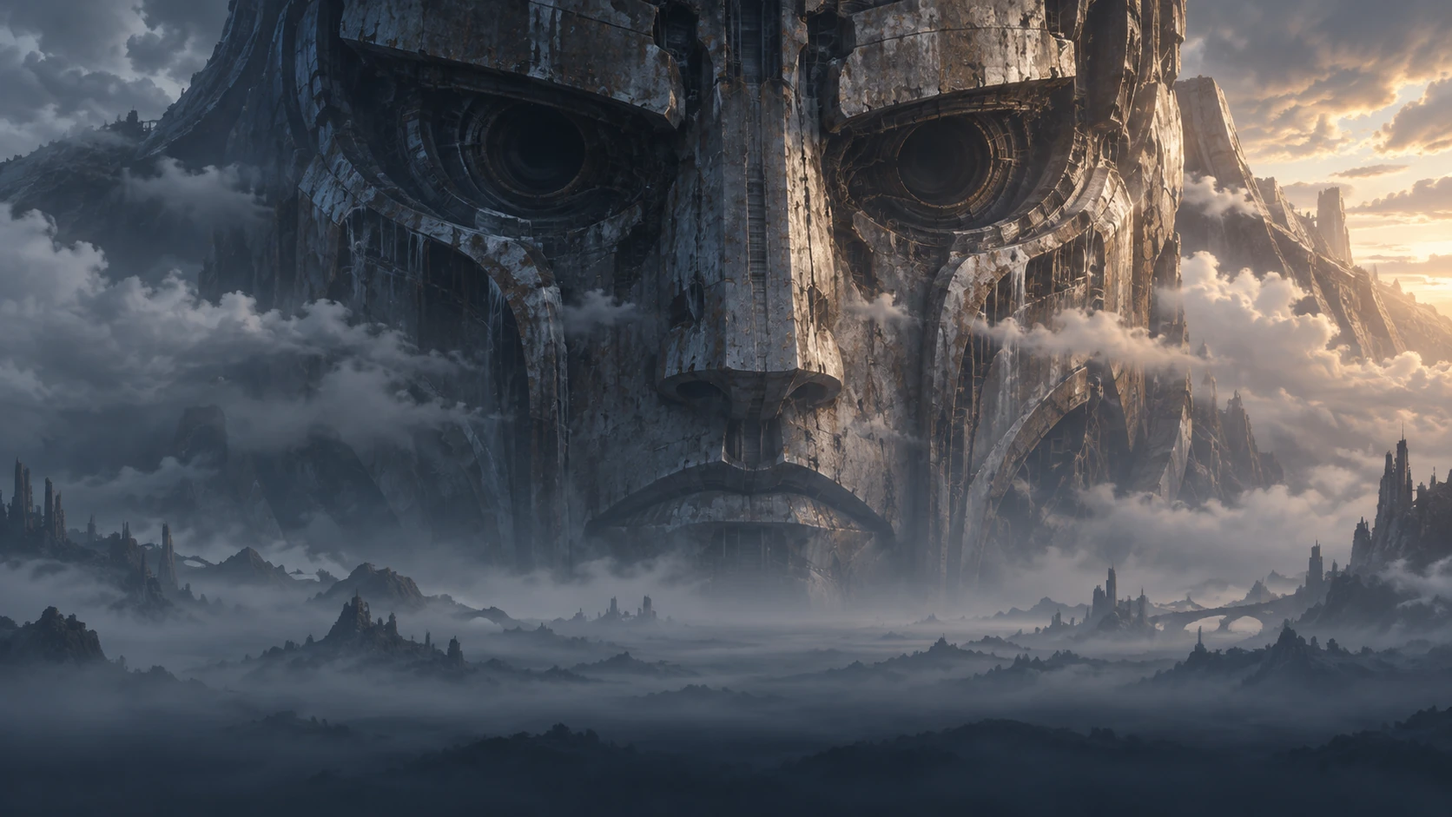
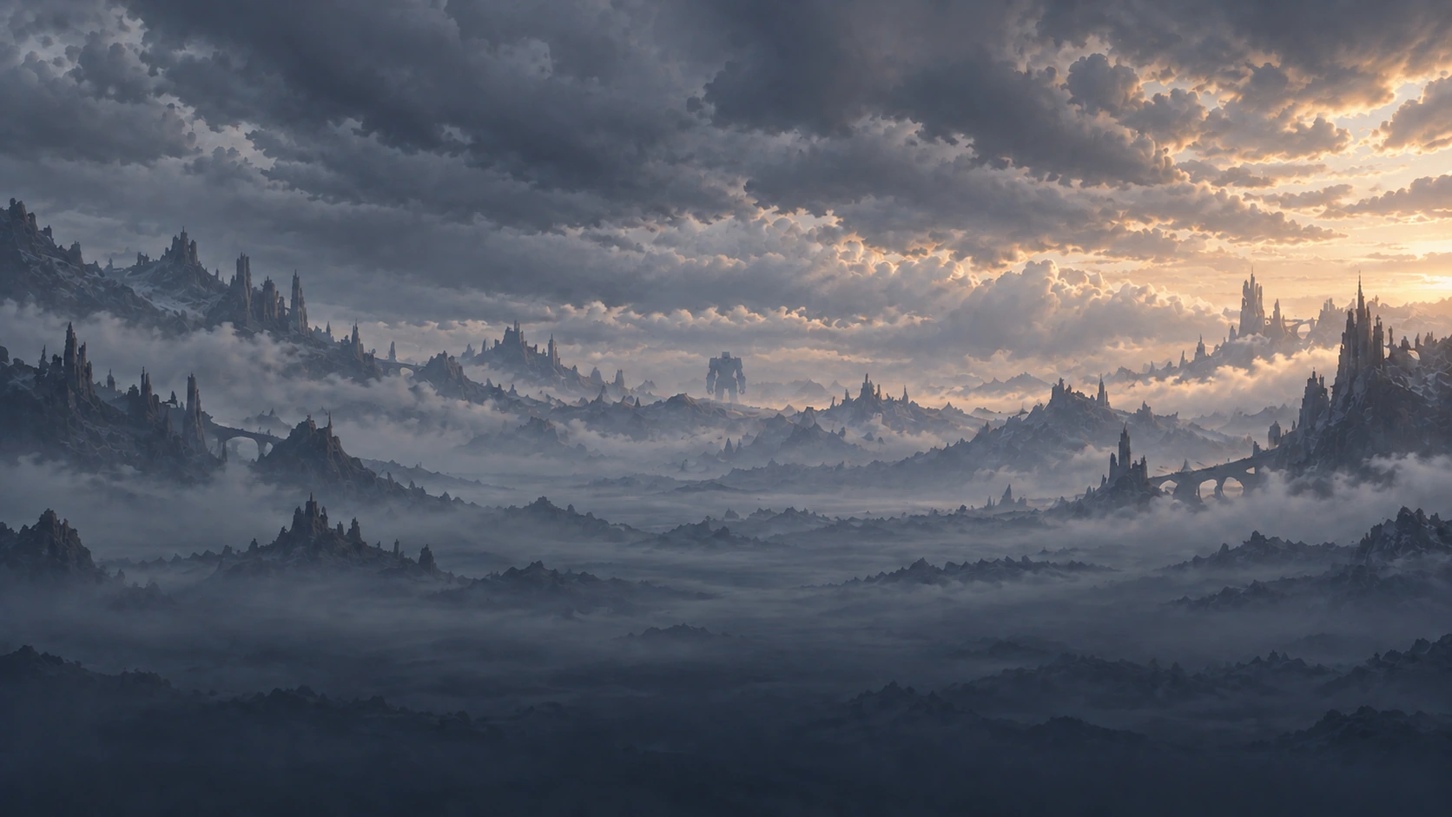
Place the Colossus on the far horizon and taper its laser

diff --git a/src/colossus-art.js b/src/colossus-art.js
@@ -1,7 +1,7 @@
-import { COLOSSUS, COLOSSUS_EYES, colossusPhase, colossusPose, colossusEye, colossusBeam, beamX } from './colossus.js';
+import { COLOSSUS, COLOSSUS_EYES, colossusPhase, colossusPose, colossusEye, colossusBeam, beamX, beamEdges } from './colossus.js';
 
 const TAU=Math.PI*2;
-let backdrop, mist;
+let backdrop, mist, energyTexture;
 const clamp=n=>Math.max(0,Math.min(1,n));
 const line=(c,x,y,ex,ey,color,width)=>{c.beginPath();c.moveTo(x,y);c.lineTo(ex,ey);c.strokeStyle=color;c.lineWidth=width;c.stroke();};
 const circle=(c,x,y,r,color)=>{c.beginPath();c.arc(x,y,r,0,TAU);c.fillStyle=color;c.fill();};
@@ -36,12 +36,25 @@ function glow(c,x,y,r,alpha,hot=false) {
   g.addColorStop(1,'rgba(91,184,224,0)');
   c.fillStyle=g;c.fillRect(x-r,y-r,r*2,r*2);
 }
+function beamTexture() {
+  if(energyTexture)return energyTexture;
+  const strip=document.createElement('canvas');strip.width=720;strip.height=1;
+  const s=strip.getContext('2d'),bloom=s.createLinearGradient(0,0,720,0);
+  for(const [at,color] of [[0,'#63bfea00'],[.12,'#63bfea08'],[.28,'#8cdef636'],[.33,'#b9f5ff85'],[.38,'#e5fcffe6'],[.45,'#ffffff'],[.55,'#ffffff'],[.62,'#e5fcffe6'],[.67,'#b9f5ff85'],[.72,'#8cdef636'],[.88,'#63bfea08'],[1,'#63bfea00']])bloom.addColorStop(at,color);
+  s.fillStyle=bloom;s.fillRect(0,0,720,1);
+  energyTexture=document.createElement('canvas');energyTexture.width=720;energyTexture.height=1024;
+  const c=energyTexture.getContext('2d');
+  for(let y=0;y<1024;y++){
+    const width=720*(y+.5)/1024;c.drawImage(strip,(720-width)/2,y,width,1);
+  }
+  return energyTexture;
+}
 function eye(c,h,index,energy,reduced) {
   const p=colossusEye(h,index),base=COLOSSUS_EYES[index],pose=colossusPose(h.age);
   c.save();
   // Restrict the optical mechanism to the aperture in the matte painting.
-  c.beginPath();c.ellipse(base.x+pose.x,base.y+pose.y,81,71,index?-.08:.12,0,TAU);c.clip();
-  c.translate(p.x,p.y);c.scale(1,.88);
+  c.beginPath();c.ellipse(base.x+pose.x,base.y+pose.y,1.8,1.6,0,0,TAU);c.clip();
+  c.translate(p.x,p.y);c.scale(.022,.022*.88);
   const rim=c.createRadialGradient(-12,-15,2,0,0,67);
   rim.addColorStop(0,'#172734');rim.addColorStop(.4,'#0c1823');rim.addColorStop(.85,'#13212c');rim.addColorStop(1,'#293c48');
   circle(c,0,0,64,rim);
@@ -66,13 +79,13 @@ function eye(c,h,index,energy,reduced) {
   circle(c,-2,1,6+energy*17,energy?`rgba(205,248,255,${.1+energy*.9})`:'#60798388');
   if(energy>0){glow(c,0,0,85,energy*.7,true);circle(c,0,0,5+energy*9,`rgba(244,254,255,${energy})`);}
   c.restore();
-  glow(c,p.x,p.y,140+energy*280,energy*.4);
+  glow(c,p.x,p.y,8+energy*65,energy*.35);
   if(energy>.3){
     c.save();c.globalCompositeOperation='screen';
-    const g=c.createLinearGradient(p.x-380,p.y,p.x+380,p.y);
+    const g=c.createLinearGradient(p.x-95,p.y,p.x+95,p.y);
     g.addColorStop(0,'#77e2ff00');g.addColorStop(.48,`rgba(179,235,252,${energy*.28})`);
     g.addColorStop(.5,`rgba(228,251,255,${energy*.6})`);g.addColorStop(.52,`rgba(179,235,252,${energy*.28})`);g.addColorStop(1,'#77e2ff00');
-    c.fillStyle=g;c.fillRect(p.x-380,p.y-1,760,2+energy*2);c.restore();
+    c.fillStyle=g;c.fillRect(p.x-95,p.y-.5,190,1+energy);c.restore();
   }
 }
 export function drawColossusSky(c,state,reduced=false) {
@@ -93,7 +106,7 @@ export function drawColossusSky(c,state,reduced=false) {
     c.drawImage(cloud,x,530+n*117,1480,155+n*25);
   }
   c.restore();
-  // Low foreground haze separates tiny, playable ruins from the distant face.
+  // Low foreground haze separates the playable ruins from the far horizon.
   const veil=c.createLinearGradient(0,750,0,1440);
   veil.addColorStop(0,'#0b162000');veil.addColorStop(.45,'#0b162032');veil.addColorStop(1,'#0b1620bb');
   c.fillStyle=veil;c.fillRect(0,750,2560,690);
@@ -129,12 +142,14 @@ export function drawColossusBeam(c,state,reduced=false) {
     const q=clamp((phase.charge-.18)/.5);
     const left=a.ex<b.ex?a:b,right=a.ex<b.ex?b:a;
     c.fillStyle=`rgba(158,214,231,${q*.055})`;
-    c.beginPath();c.moveTo(left.x-COLOSSUS.radius,left.y);c.lineTo(left.ex-COLOSSUS.radius,left.ey);
-    c.lineTo(right.ex+COLOSSUS.radius,right.ey);c.lineTo(right.x+COLOSSUS.radius,right.y);c.closePath();c.fill();
-    for(const edge of [a,b])line(c,edge.x,edge.y,edge.ex,edge.ey,`rgba(172,232,244,${q*.22})`,2);
+    const lx=Math.min(...beamEdges(left,1510)),rx=Math.max(...beamEdges(right,1510));
+    c.beginPath();c.moveTo(left.x,left.y);c.lineTo(lx,1510);
+    c.lineTo(rx,1510);c.lineTo(right.x,right.y);c.closePath();c.fill();
+    for(const edge of [a,b])line(c,edge.x,edge.y,edge.ex,edge.ey,`rgba(172,232,244,${q*.22})`,1.5);
     // Illumination is clipped to actual surviving stone, including prior cuts.
     for(const p of state.platforms){
-      const lo=Math.min(beamX(a,p.y),beamX(b,p.y))-70,hi=Math.max(beamX(a,p.y),beamX(b,p.y))+70;
+      const edges=[...beamEdges(a,p.y),...beamEdges(b,p.y)];
+      const lo=Math.min(...edges),hi=Math.max(...edges);
       const x=Math.max(p.x,lo),right=Math.min(p.x+p.w,hi);
       if(right>x){c.fillStyle=`rgba(160,222,231,${q*.42})`;c.fillRect(x,p.y,right-x,3);}
     }
@@ -153,14 +168,14 @@ export function drawColossusBeam(c,state,reduced=false) {
   c.globalAlpha=envelope;
   // Soft outer energy, a hard dangerous edge and a white-hot central core.
   c.save();c.translate(beam.x,beam.y);c.rotate(Math.atan2(beam.ey-beam.y,beam.ex-beam.x)-Math.PI/2);
-  const bloom=c.createLinearGradient(-180,0,180,0);
-  for(const [at,color] of [[0,'#63bfea00'],[.12,'#63bfea08'],[.28,'#8cdef636'],[.33,'#b9f5ff85'],[.38,'#e5fcffe6'],[.45,'#ffffff'],[.55,'#ffffff'],[.62,'#e5fcffe6'],[.67,'#b9f5ff85'],[.72,'#8cdef636'],[.88,'#63bfea08'],[1,'#63bfea00']])bloom.addColorStop(at,color);
-  c.fillStyle=bloom;c.fillRect(-180,0,360,Math.hypot(beam.ex-beam.x,beam.ey-beam.y));c.restore();
+  const length=Math.hypot(beam.ex-beam.x,beam.ey-beam.y);
+  c.drawImage(beamTexture(),-180,0,360,length);
+  c.restore();
   if(!reduced)for(let n=0;n<5;n++){
     const offset=Math.sin(h.age*1.2+n*1.7)*38;
-    line(c,beam.x+offset*.15,beam.y,beam.ex+offset,beam.ey,'#eeffff55',2+n%2);
+    line(c,beam.x+offset*.005,beam.y,beam.ex+offset,beam.ey,'#eeffff40',1+n%2);
   }
-  glow(c,beam.x,beam.y,400,.75,true);
+  glow(c,beam.x,beam.y,85,.6,true);
   // Bloom is local; it never whites out the HUD or hides all the escape routes.
   c.fillStyle=`rgba(165,219,241,${reduced ? .025 : .055})`;c.fillRect(0,0,2560,1440);
   for(const p of state.platforms.slice(0,260)){

diff --git a/src/colossus.js b/src/colossus.js
@@ -1,10 +1,11 @@
-import { playerBox, segmentBox } from './collision.js';
+import { playerBox } from './collision.js';
+import { beamTouches } from './phaser.js';
 import { bodyBounds, damageProp } from './props.js';
 
 export const COLOSSUS = Object.freeze({
   cycle: 40, wake: 16, charge: 10, fire: 4.5, radius: 60, sweep: 380,
 });
-export const COLOSSUS_EYES = Object.freeze([{x:944,y:274}, {x:1639,y:289}]);
+export const COLOSSUS_EYES = Object.freeze([{x:1274.5,y:628}, {x:1280.5,y:628}]);
 const clamp = (n, a, b) => Math.max(a, Math.min(b, n));
 export function colossusPhase(age) {
   const phase = (age + 1e-9) % COLOSSUS.cycle;
@@ -22,26 +23,34 @@ export function initialColossus() {
 // The common pose anchors both the optical artwork and physical laser. A head
 // traverse takes over two minutes; there is no fast player-following camera.
 export function colossusPose(age) {
-  return {x:Math.sin(age*.043)*3.5, y:Math.sin(age*.031)*2};
+  return {x:Math.sin(age*.043)*.25, y:Math.sin(age*.031)*.15};
 }
 export function colossusEye(h, eye = h.eye) {
   const p = colossusPose(h.age), e = COLOSSUS_EYES[eye];
-  return {x:e.x+p.x+(h.gazeX-1280)/1280*16,
-    y:e.y+p.y+(h.gazeY-1000)/700*10};
+  return {x:e.x+p.x+(h.gazeX-1280)/1280*.7,
+    y:e.y+p.y+(h.gazeY-1000)/700*.4};
 }
 export function colossusBeam(h, progress = colossusPhase(h.age).fire) {
   const eye = colossusEye(h), dir = h.eye ? -1 : 1;
-  return {...eye, ex:h.strikeX + dir*(progress-.5)*COLOSSUS.sweep, ey:1510,
-    radius:COLOSSUS.radius};
+  const ex=h.strikeX + dir*(progress-.5)*COLOSSUS.sweep,ey=1510;
+  return {...eye,ex,ey,radius:COLOSSUS.radius,flare:Math.hypot(ex-eye.x,ey-eye.y)};
 }
 export function beamX(beam, y) {
   return beam.x + (beam.ex-beam.x) * (y-beam.y)/(beam.ey-beam.y);
 }
+// Perspective narrows the ray to its remote eye. These same straight edges
+// drive the warning, cuts and shared polygon/actor collision.
+export function beamEdges(beam,y) {
+  const length=Math.hypot(beam.ex-beam.x,beam.ey-beam.y);
+  const nx=(beam.ey-beam.y)/length,ny=-(beam.ex-beam.x)/length;
+  return [-1,1].map(side=>beam.x+(beam.ex+side*nx*beam.radius-beam.x)*
+    Math.max(0,y-beam.y)/(beam.ey+side*ny*beam.radius-beam.y));
+}
 export function colossusZone(h, y) {
   const a=colossusBeam(h,0), b=colossusBeam(h,1);
   const top=y == null ? Math.min(a.y,b.y) : y-60, bottom=y == null ? 1510 : y+60;
-  const xs=[beamX(a,top),beamX(a,bottom),beamX(b,top),beamX(b,bottom)];
-  return {x:Math.min(...xs)-85,y:top,w:Math.max(...xs)-Math.min(...xs)+170,h:bottom-top};
+  const xs=[...beamEdges(a,top),...beamEdges(a,bottom),...beamEdges(b,top),...beamEdges(b,bottom)];
+  return {x:Math.min(...xs)-25,y:top,w:Math.max(...xs)-Math.min(...xs)+50,h:bottom-top};
 }
 export function colossusDanger(h,x,y,padding=18) {
   if(h.done || (!h.active && h.warning<=0))return false;
@@ -58,11 +67,9 @@ export function carveColossusBeam(world, beam, previous = beam) {
   const removedWreck = new Set();
   for(const p of world.platforms) {
     if(p.hp===0)continue;
-    const slope=(beam.ex-beam.x)/(beam.ey-beam.y), oldSlope=(previous.ex-previous.x)/(previous.ey-previous.y);
-    const radius=beam.radius*Math.sqrt(1+Math.max(slope*slope,oldSlope*oldSlope));
-    const xs=[beamX(beam,p.y),beamX(beam,p.y+p.h),beamX(previous,p.y),beamX(previous,p.y+p.h)];
+    const xs=[...beamEdges(beam,p.y),...beamEdges(beam,p.y+p.h),...beamEdges(previous,p.y),...beamEdges(previous,p.y+p.h)];
     if(p.y+p.h<beam.y-beam.radius || p.y>beam.ey+beam.radius ||
-      p.x+p.w<=Math.min(...xs)-radius || p.x>=Math.max(...xs)+radius) {out.push(p);continue;}
+      p.x+p.w<=Math.min(...xs) || p.x>=Math.max(...xs)) {out.push(p);continue;}
     if(p.wreckId){removedWreck.add(p.wreckId);changed=true;continue;}
     let touched=false;
     const slices=[];
@@ -73,8 +80,8 @@ export function carveColossusBeam(world, beam, previous = beam) {
     };
     for(let y=p.y;y<p.y+p.h;y+=8) {
       const height=Math.min(8,p.y+p.h-y);
-      const xa=[beamX(beam,y),beamX(beam,y+height),beamX(previous,y),beamX(previous,y+height)];
-      const left=clamp(Math.min(...xa)-radius,p.x,p.x+p.w), right=clamp(Math.max(...xa)+radius,p.x,p.x+p.w);
+      const xa=[...beamEdges(beam,y),...beamEdges(beam,y+height),...beamEdges(previous,y),...beamEdges(previous,y+height)];
+      const left=clamp(Math.min(...xa),p.x,p.x+p.w), right=clamp(Math.max(...xa),p.x,p.x+p.w);
       if(right-left>.01)touched=true;
       add(p.x,y,left-p.x,height);add(right,y,p.x+p.w-right,height);
     }
@@ -127,12 +134,12 @@ export function updateColossus(world,h,dt) {
   const sweepPad=before.firing?Math.abs(beam.ex-oldBeam.ex):0;
   for(const p of world.players){
     if(!p.alive || h.hitIds.includes(p.id))continue;
-    if(!segmentBox(beam.x,beam.y,beam.ex,beam.ey,playerBox(p),beam.radius+sweepPad))continue;
+    if(!beamTouches(playerBox(p),{...beam,radius:beam.radius+sweepPad}))continue;
     h.hitIds.push(p.id);
     world.hit(p,{x:beam.x,y:beam.y,vx:0,vy:0},1000,1050,Math.sign(p.x-beam.x)||1,.3,
       {blast:true,effect:'plasma',cause:'colossus',hitstop:0});
   }
-  for(const p of [...world.cover,...world.chunks])if(p.hp>0&&segmentBox(beam.x,beam.y,beam.ex,beam.ey,bodyBounds(p),beam.radius+sweepPad))
+  for(const p of [...world.cover,...world.chunks])if(p.hp>0&&beamTouches(bodyBounds(p),{...beam,radius:beam.radius+sweepPad}))
     damageProp(world,p,1000,(Math.sign(p.x-beam.x)||1)*420,-260);
   // Carve at most once per 14 units of sweep; the preceding beam closes the
   // gap exactly. Bounded chunks/debris use the shared physical-world budgets.

diff --git a/tests/colossus.test.js b/tests/colossus.test.js
@@ -18,7 +18,7 @@ function fixture(){const w=new World({arena:ARENAS.findIndex(a=>a.colossus),play
 function advance(w,seconds){for(let n=0;n<Math.round(seconds/STEP);n++){w.time+=STEP;updateColossus(w,w.hazards[0],STEP);}}
 function transport(w){return expandSnapshot(compactSnapshot(new RenderSnapshots().make(w.snapshot())),validSnapshot);}
 
-test('colossus terraces connect every spawn to contested weapons with the face above play',()=>{
+test('colossus terraces connect every spawn to contested weapons with the distant mech above play',()=>{
   const w=fixture(),solids=w.solids(),graph=navigation(solids,{time:0,spikes:[]});
   assert.ok(w.platforms.every(p=>p.y>=870));
   for(const p of w.players){
@@ -68,6 +68,15 @@ test('beam carves only its swept contact, releases removed supports and destroys
     prepareProp({id:'safe',kind:'crate',x:100,y:1040,w:72,h:64,hp:75,maxHp:75})];
   advance(w,STEP);assert.equal(w.cover[0].hp,0);assert.equal(w.cover[1].hp,75);
   assert.ok(w.chunks.length>0&&w.chunks.length<=96);
+});
+
+test('the distant beam narrows with perspective and cannot hit outside its visible cone',()=>{
+  const w=fixture(),h=w.hazards[0];h.age=26;h.strikeX=1280;
+  const beam=colossusBeam(h),nearEye=w.players[0],foreground=w.players[1];
+  Object.assign(nearEye,{x:beamX(beam,800)+50,y:800,spawnShield:0});
+  Object.assign(foreground,{x:beamX(beam,1300)+20,y:1300,spawnShield:0});
+  advance(w,STEP);
+  assert.equal(nearEye.hp,100);assert.equal(foreground.alive,false);
 });
 
 test('distant mech cannot be destroyed by local blasts; only host fight state advances it',()=>{

diff --git a/tests/release-metadata.test.js b/tests/release-metadata.test.js
@@ -1,6 +1,28 @@
 import test from 'node:test';
 import assert from 'node:assert/strict';
 import { verifyReleaseMetadata } from '../scripts/verify-release.mjs';
+import { gameFingerprint } from '../scripts/release-metadata.mjs';
+import fs from 'node:fs/promises';
+import os from 'node:os';
+import path from 'node:path';
+
+test('game fingerprints preserve binary artwork bytes while normalizing text line endings', async () => {
+  const root=await fs.mkdtemp(path.join(os.tmpdir(),'bonk-fingerprint-'));
+  try {
+    await fs.mkdir(path.join(root,'src/assets'),{recursive:true});
+    await fs.mkdir(path.join(root,'scripts'));
+    for(const name of ['index.html','favicon.svg','package.json','package-lock.json','vite.config.js','scripts/release-metadata.mjs'])
+      await fs.writeFile(path.join(root,name),'source\r\n');
+    const asset=path.join(root,'src/assets/art.webp');
+    await fs.writeFile(asset,Buffer.from([0x80,0x0d,0x0a]));
+    const a=await gameFingerprint(root);
+    await fs.writeFile(path.join(root,'index.html'),'source\n');
+    assert.equal(await gameFingerprint(root),a);
+    // Both invalid UTF-8 bytes would collapse to the same replacement character.
+    await fs.writeFile(asset,Buffer.from([0x81,0x0d,0x0a]));
+    assert.notEqual(await gameFingerprint(root),a);
+  } finally { await fs.rm(root,{recursive:true,force:true}); }
+});
 
 test('publication requires clean browser, Windows and Linux outputs of one game revision', () => {
   const common = { version: '0.19.0', revision: 'a'.repeat(40), gameSourceHash: 'b'.repeat(64), dirty: false };

diff --git a/src/colossus-sound.js b/src/colossus-sound.js
@@ -1,4 +1,4 @@
-import { COLOSSUS } from './colossus.js';
+import { COLOSSUS, COLOSSUS_EYES } from './colossus.js';
 export const COLOSSUS_SOUND_SECONDS=COLOSSUS.charge+COLOSSUS.fire+3;
 
 // One cached, seekable voice: distant gearing, a slowly rising pressure tone,
@@ -47,7 +47,7 @@ export class ColossusSound {
       if(Math.abs(this.current.voice.end-sound.context.currentTime-(COLOSSUS_SOUND_SECONDS-offset))<.18)return;
     }
     this.stop(sound);
-    const voice=sound.sample('colossus',{x:h.eye?1639:944},{priority:true,fixed:true,offset,duration:COLOSSUS_SOUND_SECONDS-offset});
+    const voice=sound.sample('colossus',{x:COLOSSUS_EYES[h.eye].x},{priority:true,fixed:true,offset,duration:COLOSSUS_SOUND_SECONDS-offset});
     if(voice)this.current={key,age:h.age,voice};
   }
 }

diff --git a/tests/scale.test.js b/tests/scale.test.js
@@ -85,7 +85,7 @@ test("all arenas occupy the enlarged world and support expanded online snapshots
       assert.ok(w.platforms[0].w > 2300);
       assert.ok(w.players.every(p=>p.y < w.platforms[0].y));
     } else if(w.arena.colossus) {
-      assert.ok(w.platforms.every(p=>p.y>=870),'the face owns the skyline');
+      assert.ok(w.platforms.every(p=>p.y>=870),'the distant silhouette stays above the playable ruins');
       assert.ok(w.platforms.length>=11&&w.platforms.some(p=>p.y>=1300));
       assert.ok(Math.abs(w.players[0].x-w.players[1].x)>2000);
     } else {

diff --git a/src/colossus-arena.js b/src/colossus-arena.js
@@ -2,7 +2,7 @@ const terrace = (x, y, w, h = 32) => ({
   x, y, w, h, material: 'stone', colossusStone: true,
 });
 
-// A low, open ruin keeps the skyline clear. Staggered stairs connect both
+// A low, open ruin keeps the distant silhouette clear. Staggered stairs connect both
 // galleries; the lower crossing remains an escape route after an upper cut.
 export const COLOSSUS_ARENA = {
   name: 'COLOSSUS', theme: 'colossus', color: '#1a2734', colossus: true,

diff --git a/docs/COLOSSUS.md b/docs/COLOSSUS.md
@@ -1,19 +1,21 @@
 # Colossus arena
 
-The distant face is the main landscape. Play stays on low, connected stone
-terraces beneath it. Both eyes follow the living fighters through two slow
-tracking filters; a head traverse takes over two minutes. The mech is outside
-the playable world and cannot be hit, removed or captured by local weapons.
+The ancient mech is a tiny, almost square silhouette on the far horizon, with
+its head, torso, arms and legs visible through the haze. Low, connected ruins
+leave the horizon clear. Both eyes follow the living fighters through two slow
+tracking filters. Apparent head motion is less than a pixel and takes minutes.
+The machine is beyond the playable world; local weapons cannot damage it.
 
 The host runs a forty-second cycle: sixteen seconds of stillness, ten seconds
 of charging, a four-and-a-half-second sweep and a long decay. The eyes alternate.
-The aim is selected when charging starts and cannot chase players during the
+Aim is selected when charging begins and cannot chase players during the
 warning. A steady light fan and illuminated stone edges show the forthcoming
-sweep. Players can leave it using normal movement and the connected terraces.
+sweep. Players leave its path using ordinary movement and connected terraces.
 
-The sixty-unit-radius beam inflicts contact damage, fractures props and carves
-the terrain it traverses. Surviving collision strips also clip the artwork and
-cast shadows. Cuts persist through snapshots and hot joins, and reset next
+The beam narrows to the remote eye and widens toward the foreground, reaching a
+sixty-unit radius. Shared projected geometry governs actor contact, physical
+prop damage and terrain cuts. Surviving collision strips also clip the artwork
+and cast shadows. Cuts persist through snapshots and hot joins and reset next
 round. Bots recognise the full forthcoming sweep and seek supported escape
 positions. Guests do not calculate damage or terrain edits.
 
@@ -23,19 +25,32 @@ optical rotation and beam turbulence while retaining the warning and beam.
 
 ## Artwork
 
-`src/assets/colossus.webp` is the original background matte painting generated
-with the built-in image-generation tool for this arena. The original PNG was
-encoded as WebP at quality 91 without changing its composition or colours.
-The animated eyes, atmosphere, stone terraces, shadows and laser are Canvas art.
+`src/assets/colossus.webp` is an original background matte painting generated
+and revised with the built-in image-generation tool for this arena. Sam's
+latest direction replaces the initial face-dominated composition with a tiny,
+distant full-body silhouette. The selected PNG was encoded as WebP at quality
+93 without changing its composition or colours. Animated eyes, atmosphere,
+stone terraces, shadows and the laser are Canvas art.
 
-Final generation prompt:
+The final two editing prompts are recorded below. Both used the built-in tool;
+the second used the first edit as its reference.
 
 ```text
-Use case: stylized-concept.
-Asset type: final production background matte painting for a 16:9 side-view 2D game arena, high resolution landscape 2560x1440 or larger.
-Primary request: An ancient colossal mechanical god exists unimaginably far away. Its HEAD AND FACE dominate the entire distant skyline; not a nearby robot, not a combat enemy. It feels like a continent. Its forehead extends beyond the top frame; face fills central 65% of width, from top edge to lower mist. Broad asymmetrical weathered armoured cheeks, a long monolithic mechanical nose, sunken cold dead circular eyes beneath enormous brow plates, nested industrial rings deep within sockets, a severe ancient expression. Shoulders disappear beyond both sides into haze. No visible full body or limbs.
-Composition: frontal three-quarter near-symmetric face looking slightly downward, two dark circular eye apertures around 37% and 63% of image width, 33% image height. Eye apertures intentionally dark and unlit to receive animated light overlays. Cloud ribbons pass across lower cheeks. Tiny mountain ranges and tiny abandoned needle towers at bottom, many distinct atmospheric depth layers. All landmarks absurdly small compared with head. Lower 35% increasingly dark quiet blue-grey fog with no foreground playable platforms, leaving readable negative space for gameplay. No close-up objects.
-Style: extraordinarily beautiful cinematic science-fiction concept painting, painterly photoreal detail with textured brushwork, immense architectural mechanical complexity, weathered iron, mineral streaking, broken armor, internal ribbing, fine machinery barely discernible through immense distance; restrained atmospheric perspective, no sharp toy-like outline. A film establishing shot, monumental, solemn, eerie.
-Lighting: cold storm light and pale luminous mist, narrow muted warm light from the far right horizon; huge soft shadows, rich charcoal and slate blue shadows, steel silver highlights, soft amber rim on right. Moody but legible facial planes, dramatic tonal depth. Not overly dark or flat.
-Constraints: background ONLY, no text, logos, watermarks, border, HUD, characters, fighters, weapons, explosions or active lasers, no glowing eyes, no smile, no cartoon mascot. Face must dominate. Sky contains slow clouds only; no stars, no planets.
+Use case: precise-object-edit.
+Asset type: final production background matte painting for a 16:9 side-view 2D game arena.
+Edit target: the supplied cinematic painting of an enormous mechanical face.
+Primary change: Move the mech MUCH MUCH farther away. The user now wants it to be a tiny almost square shape in the distance, still identifiable, with much more of its body visible. Remove the huge foreground face completely. Recompose this as an immense empty landscape with a very small, remote, unnervingly stationary ancient mech almost lost in distant haze.
+Composition: the ENTIRE mech silhouette occupies only about 5% of the image width and 13% of the image height, near the centre, at x=50%, with feet at y=57%. Its head, broad square hunched shoulders, torso, hanging heavy arms and legs are all visible. A square, blocky ancient mechanical humanoid seen far across dozens of miles of enormous mountain ridges, towers and cloud banks. A small geometric shape on the horizon. NOT a close-up, NOT a giant figure filling the image. More than 90% of the composition is empty landscape and sky. The camera is extremely far away. Its face is a tiny dark square with two minuscule cold, barely visible eye apertures, to receive live game light overlays.
+Scene: broken mountain ranges and tiny abandoned needle towers receding across multiple valleys, huge fields of mist, impossibly distant ruined architecture, a pale cold sky with immense layered storm clouds and faint waning light at the right horizon. The lonely central silhouette is wrong and unsettling in its stillness, its age and scale hinted at by clouds halfway up its body and mountains far below its head. It appears to be watching the viewer. No aggression or battle pose.
+Preserve: the supplied image's beautiful painterly cinematic science-fiction visual quality, mineral-weathered ancient metal, slate-blue mist and subtle muted amber light. Refine the mood to be creepier, quieter, lonelier and more oppressive, with an uncomfortably large amount of empty space around the distant machine.
+Lower 35%: dark, low contrast quiet valley and fog for readable gameplay overlay. No foreground playable platforms.
+Constraints: no text, logos, watermarks, border, HUD, characters, nearby robots, weapons, active lasers, explosions, glowing red eyes, stars, planets or giant nearby face. The mech must be SMALL IN THE IMAGE and very far away.
+```
+
+```text
+Use case: precise-object-edit.
+Edit target: the supplied distant-mech mountain landscape. Keep its beautiful landscape, cloud lighting, all mountain ranges, mist, towers, colour palette and framing unchanged.
+Make ONLY this precise change: shrink the central mech's visible size by one half in BOTH dimensions, retaining its feet at the same horizon position. In the final 1672x941 composition the whole mech should be only about 75 pixels wide and 95 pixels tall, centred around x=836 with the feet around y=456. It should read as a tiny, almost square silhouette on the farthest horizon, barely discernible but recognisably mechanical. It must look dozens of miles farther away. Its head, torso, arms and legs remain visible, with the lower body partially hidden by thin distant fog.
+Make the reduced figure creepier: an utterly still, dark weathered block of metal with a small square, expressionless head; no human face or visible mouth, only two dark narrow eye apertures. Slightly stooped shoulders and heavy arms hanging still. Distant atmospheric blue-grey desaturates the whole figure. No glow yet. It seems to be silently watching across all this empty space.
+Fill the area vacated by the larger mech with the existing distant sky and clouds, naturally continuing this exact landscape. Do not move the horizon or change the camera. Do not enlarge the tiny mech to make it the hero of the frame. The landscape, immense empty space and loneliness must dominate. No text, HUD, characters, foreground platforms, laser, explosions or extra objects.
 ```

diff --git a/docs/HANDOFF.md b/docs/HANDOFF.md
@@ -1,5 +1,22 @@
 # Bonk Club — current handoff
 
+## Colossus (v0.57.0 / protocol 79)
+
+- A tiny square-headed ancient mech stands on the remote horizon with torso and
+  limbs visible through layered mountain mist. This follows Sam's latest request
+  for a much more distant, creepier figure. Original generated matte artwork,
+  art direction and generation prompts are recorded in `docs/COLOSSUS.md`.
+- Low connected stone terraces preserve the skyline and offer escape routes.
+  Eyes follow the living fighters with a slow cascaded delay. Every forty seconds
+  an alternating eye charges for ten seconds and sweeps a laser for 4.5 seconds.
+  Perspective tapers the beam from the distant aperture into the foreground.
+- Host-owned damage, warning geometry, live terrain cuts and lighting agree.
+  Cuts persist through validated compact snapshots and hot joins; local weapons
+  cannot remove the remote controller. Bots escape through ordinary movement.
+  Audio seeks correctly when joining or unmuting; effects respect reduced motion.
+- Focused mechanics/audio tests and desktop visual inspection pass. Full release
+  verification is in progress; do not treat this note as public deployment proof.
+
 ## Suspension Bridge (v0.56.0 / protocol 78)
 
 - Added a desktop arena with two suspended road spans, tower interiors and lower

diff --git a/AGENTS.md b/AGENTS.md
@@ -101,6 +101,14 @@ Start new work from current `origin/main` in one clean worktree.
 
 ### Arena-specific rules
 
+- **Colossus:** a tiny, square-headed ancient mech stands far beyond the mountain
+  valley, with its whole body visible through haze. Keep the distant silhouette,
+  cold delayed gaze and nearly imperceptible motion. Its alternating eyes charge
+  for ten seconds, then sweep a perspective-correct laser for 4.5 seconds in a
+  forty-second cycle. Warning, light, damage and terrain cuts share the actual
+  projected beam. The remote controller cannot be destroyed by local weapons.
+  Preserve surviving routes, ordinary-control bot escapes, bounded effects,
+  seekable audio, reduced motion, host authority, damaged-world joins and reset.
 - **Waterworks:** six breakable mains flood a large central basin through shared
   water physics. Eight movable generators alternate in two stable banks six seconds
   apart, each with 7 seconds off, 1 amber warning, 4 live, powering only actual
